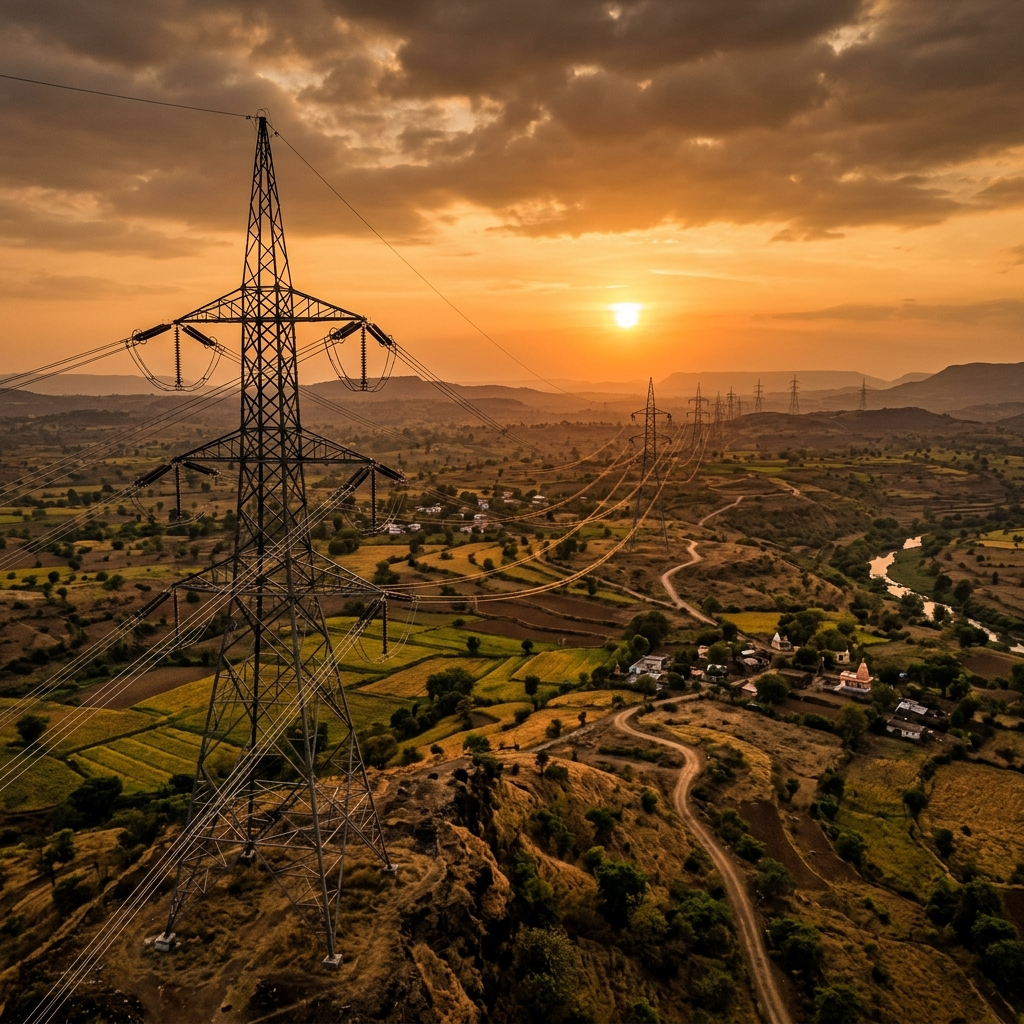
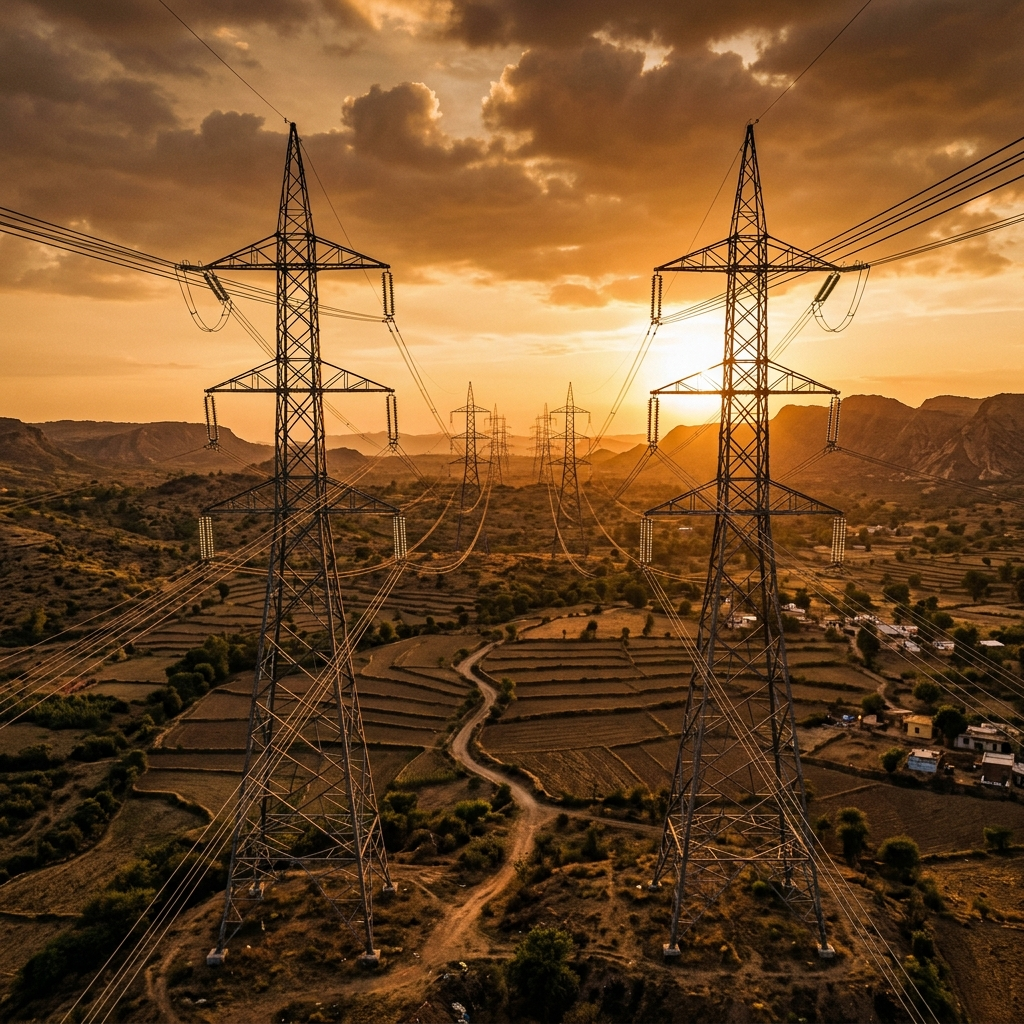
before-IndiaMap

diff --git a/src/components/layout/navbar.tsx b/src/components/layout/navbar.tsx
@@ -24,7 +24,29 @@ export function Navbar() {
     };
   }, [mobileOpen]);
 
+  /**
+   * Close the mobile menu first, then defer the anchor scroll to the next
+   * animation frame so the overlay is fully unmounted (and body overflow
+   * restored) before the page begins scrolling.
+   */
+  const handleNavClick = (e: React.MouseEvent<HTMLAnchorElement>, href: string) => {
+    if (!mobileOpen) return; // desktop — do nothing special
+    e.preventDefault();
+    setMobileOpen(false);
+    requestAnimationFrame(() => {
+      const id = href.replace(/^\/?#/, "");
+      const target = document.getElementById(id);
+      if (target) {
+        target.scrollIntoView({ behavior: "smooth", block: "start" });
+      } else if (href.startsWith("#")) {
+        // fallback for hash-only hrefs
+        window.location.hash = href;
+      }
+    });
+  };
+
   return (
+    <>
     <header
       className={`fixed top-0 left-0 right-0 z-50 transition-all duration-300 ${
         scrolled
@@ -168,50 +190,64 @@ export function Navbar() {
           )}
         </button>
       </nav>
+    </header>
 
-      {/* Mobile menu panel */}
-      {mobileOpen && (
-        <div
-          id="mobile-menu"
-          className="lg:hidden fixed inset-0 top-[104px] z-40 bg-brand-warm"
-          role="dialog"
-          aria-modal="true"
-          aria-label="Mobile navigation"
-        >
-          <div className="flex flex-col px-6 py-8">
-            <ul className="flex flex-col gap-1">
-              {NAV_LINKS.map((link) => (
-                <li key={link.href}>
-                  <Link
-                    href={link.href}
-                    className="block py-3 text-lg font-medium text-brand-charcoal border-b border-border"
-                    onClick={() => setMobileOpen(false)}
-                  >
-                    {link.label}
-                  </Link>
-                </li>
-              ))}
-            </ul>
+    {/* Mobile menu panel — rendered OUTSIDE <header> so it escapes the header's
+        stacking context and can cover the full viewport without clipping. */}
+    {mobileOpen && (
+      <div
+        id="mobile-menu"
+        className="lg:hidden"
+        role="dialog"
+        aria-modal="true"
+        aria-label="Mobile navigation"
+        style={{
+          position: "fixed",
+          inset: 0,
+          width: "100vw",
+          height: "100dvh",
+          zIndex: 9999,
+          overflowY: "auto",
+          backgroundColor: "var(--color-brand-warm, #fdf8f0)",
+        }}
+      >
+        {/* Spacer that matches the navbar height so links sit below the bar */}
+        <div style={{ height: "104px" }} aria-hidden="true" />
 
-            <div className="mt-8 flex flex-col gap-4">
-              <a
-                href={`tel:${CONTACT.phone[0].replace(/\s/g, "")}`}
-                className="flex items-center gap-2 text-sm font-medium text-brand-steel"
-              >
-                <Phone className="h-4 w-4" aria-hidden="true" />
-                <span>{CONTACT.phone[0]}</span>
-              </a>
-              <Link
-                href="#contact"
-                className="inline-flex items-center justify-center rounded bg-brand-charcoal px-5 py-3 text-sm font-medium text-brand-warm"
-                onClick={() => setMobileOpen(false)}
-              >
-                Request Quote
-              </Link>
-            </div>
+        <div className="flex flex-col px-6 py-8">
+          <ul className="flex flex-col gap-1">
+            {NAV_LINKS.map((link) => (
+              <li key={link.href}>
+                <Link
+                  href={link.href}
+                  className="block py-3 text-lg font-medium text-brand-charcoal border-b border-border"
+                  onClick={(e) => handleNavClick(e, link.href)}
+                >
+                  {link.label}
+                </Link>
+              </li>
+            ))}
+          </ul>
+
+          <div className="mt-8 flex flex-col gap-4">
+            <a
+              href={`tel:${CONTACT.phone[0].replace(/\s/g, "")}`}
+              className="flex items-center gap-2 text-sm font-medium text-brand-steel"
+            >
+              <Phone className="h-4 w-4" aria-hidden="true" />
+              <span>{CONTACT.phone[0]}</span>
+            </a>
+            <Link
+              href="#contact"
+              className="inline-flex items-center justify-center rounded bg-brand-charcoal px-5 py-3 text-sm font-medium text-brand-warm"
+              onClick={(e) => handleNavClick(e, "#contact")}
+            >
+              Request Quote
+            </Link>
           </div>
         </div>
-      )}
-    </header>
+      </div>
+    )}
+    </>
   );
 }

diff --git a/src/components/sections/hero.tsx b/src/components/sections/hero.tsx
@@ -196,7 +196,7 @@ export function HeroSection() {
                       className="text-sm font-medium"
                       style={{ color: "rgba(255,255,255,0.82)", lineHeight: "1.6" }}
                     >
-                      DGPS &middot; UAV &middot; LiDAR &middot; Total Station
+                      DGPS &middot; UAV &middot; LiDAR &middot; Thermal &middot; Total Station
                     </dd>
                   </div>
 